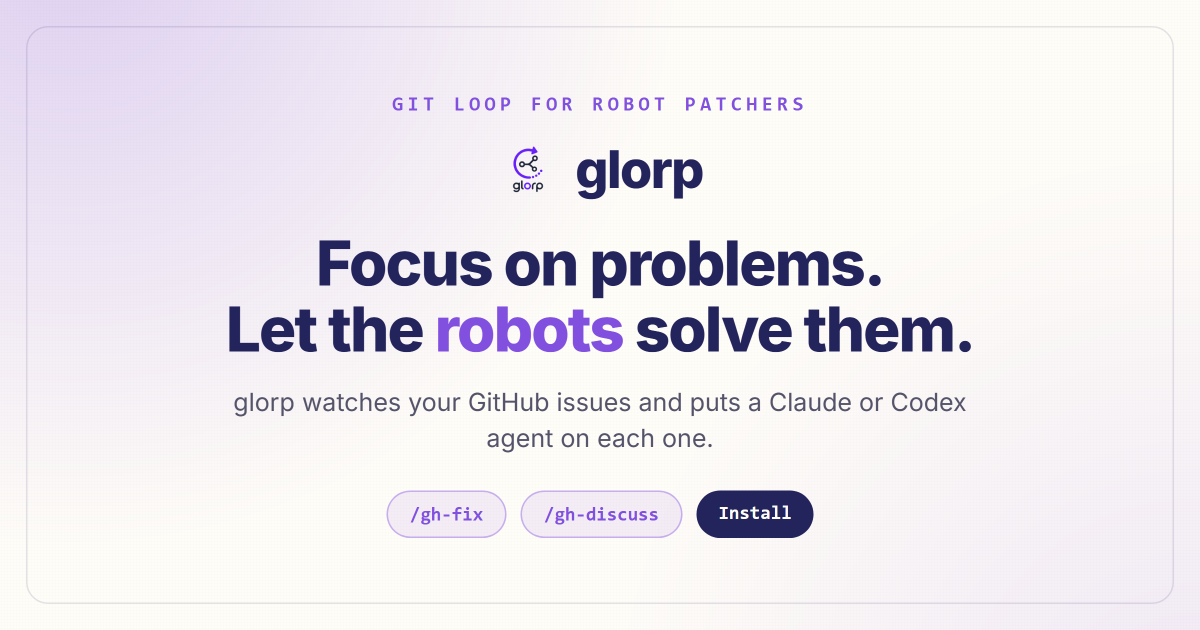
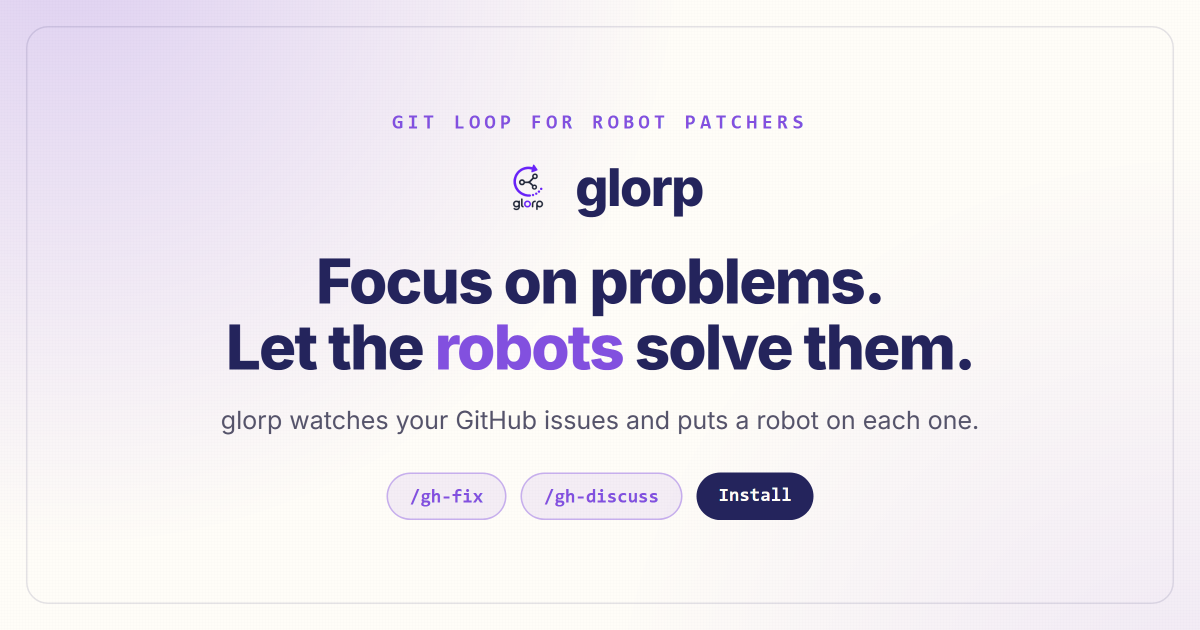
Say "a robot" instead of "a Claude or Codex agent" in marketing copy
The hero lede and the OG card subhead named the specific agents,
which doesn't match the simpler "let the robots solve them" framing
used everywhere else on the landing page. README.md keeps the
precise wording since it's technical documentation.

Changed region(s): [[0.185, 0.2413, 0.8325, 0.8746], [0.3083, 0.1508, 0.6783, 0.2111]]

diff --git a/site/layouts/index.html b/site/layouts/index.html
@@ -43,7 +43,7 @@
         <div>
           <p class="eyebrow">Git Loop fOr Robot Patchers</p>
           <h1>Focus on problems.<br>Let the robots solve them.</h1>
-          <p class="hero-lede">glorp is a daemon that watches your GitHub issues. You describe a problem &mdash; a bug, a proposal, a thing that should exist &mdash; and it puts a Claude or Codex agent on it.</p>
+          <p class="hero-lede">glorp is a daemon that watches your GitHub issues. You describe a problem &mdash; a bug, a proposal, a thing that should exist &mdash; and it puts a robot on it.</p>
           <p class="hero-sub">The queue is your issue list. The scheduling rules are labels and dependencies. The progress report is the thread. Nothing new to learn, nowhere new to look.</p>
           <div class="hero-actions">
             <a class="button primary" href="#install">Install glorp</a>
